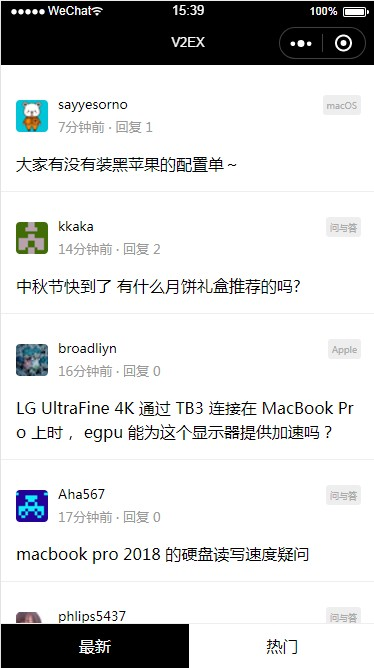
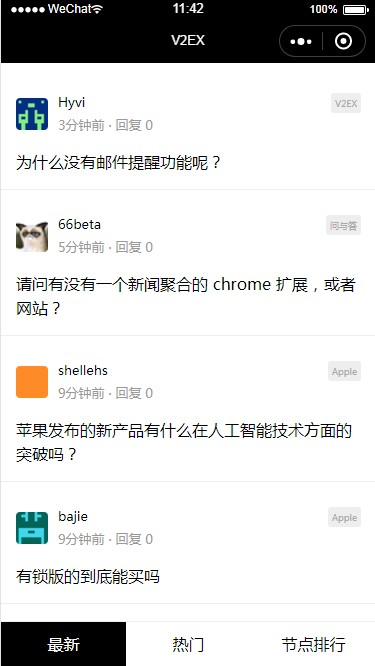
v1.0.3

diff --git a/pages/index/index.js b/pages/index/index.js
@@ -58,7 +58,43 @@ Page({
       }
     })
   },
-
+	
+	getNodes: function(request, cb){
+		var that = this
+    wx.request({
+      url: webapi[request](),
+      header: {
+          'Content-Type': 'application/json'
+      },
+      success: function(res) {
+        var resData = res.data
+				var nodesList = []
+				resData.sort(function(a, b){
+					return b.topics - a.topics 
+				})
+				resData.forEach(function(a, i){
+					if( i < 99 ) nodesList[i] = a
+				})
+        that.setData({
+          list: nodesList,
+          hidden: true,
+          errorCount: 0
+        })
+        if(cb && typeof cb === 'function'){
+          cb()
+        }
+      },
+      fail: function (err){
+        that.setData({
+          errorCount:that.data.errorCount + 1
+        })
+        if(that.data.errorCount < 4){
+          setTimeout(that.getNodes, 2000)
+        }
+      }
+    })
+	},
+	
   switchTab: function (e) {
     var that = this
     var currentTarget = e.currentTarget.id;
@@ -68,22 +104,30 @@ Page({
       })
       this.getData('getLatestTopic', function(){
         that.setData({
-          hidden: true,
           template: 'latest'
         })
       })
-      
-    }else if(currentTarget === 'hot' && this.data.template !== 'hot'){
+    }
+		else if(currentTarget === 'hot' && this.data.template !== 'hot'){
       this.setData({
         hidden:false
       })
       this.getData('getHotTopic',function(){
         that.setData({
-          hidden:true,
           template:'hot'
         })
       })
     }
+		else if( currentTarget === 'nodes' && this.data.template !== 'nodes' ){
+			this.setData({
+        hidden:false
+      })
+      this.getNodes('getAllNode', function(){
+        that.setData({
+          template: 'nodes'
+        })
+      })
+		}
   },
 
   bindViewTap: function(e) {
